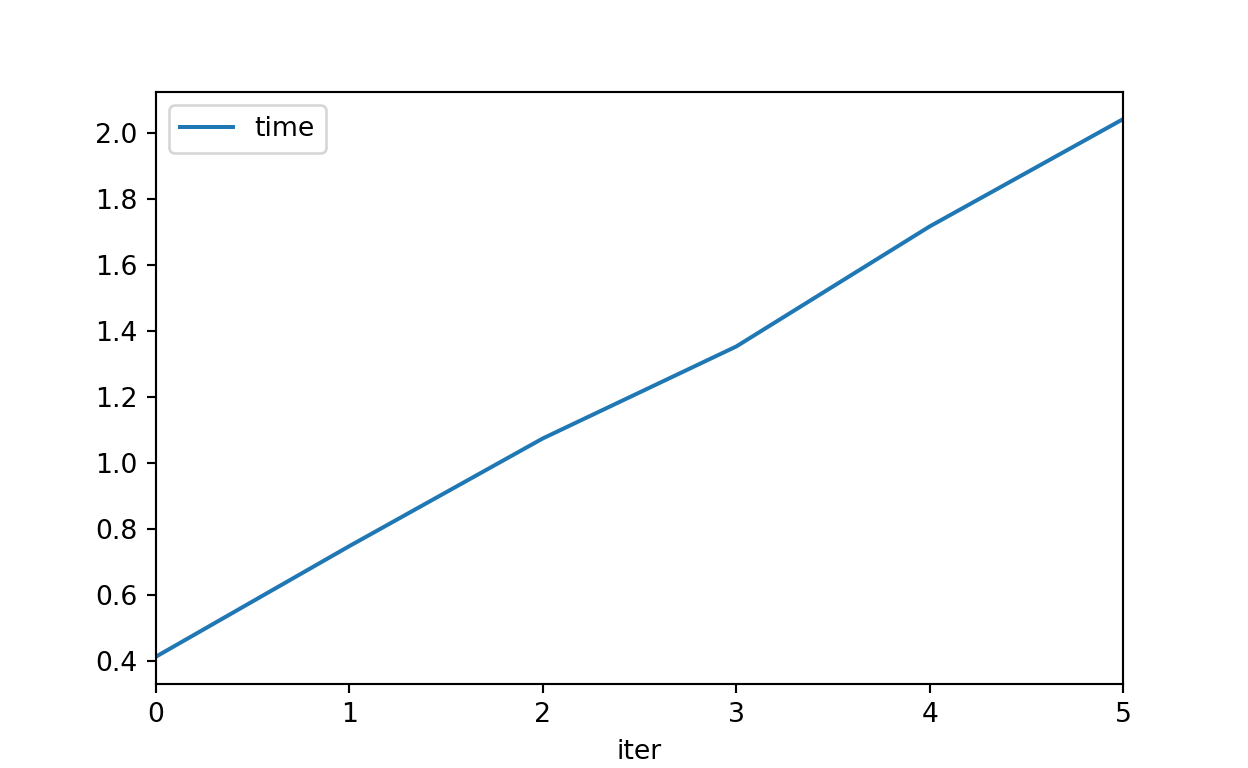
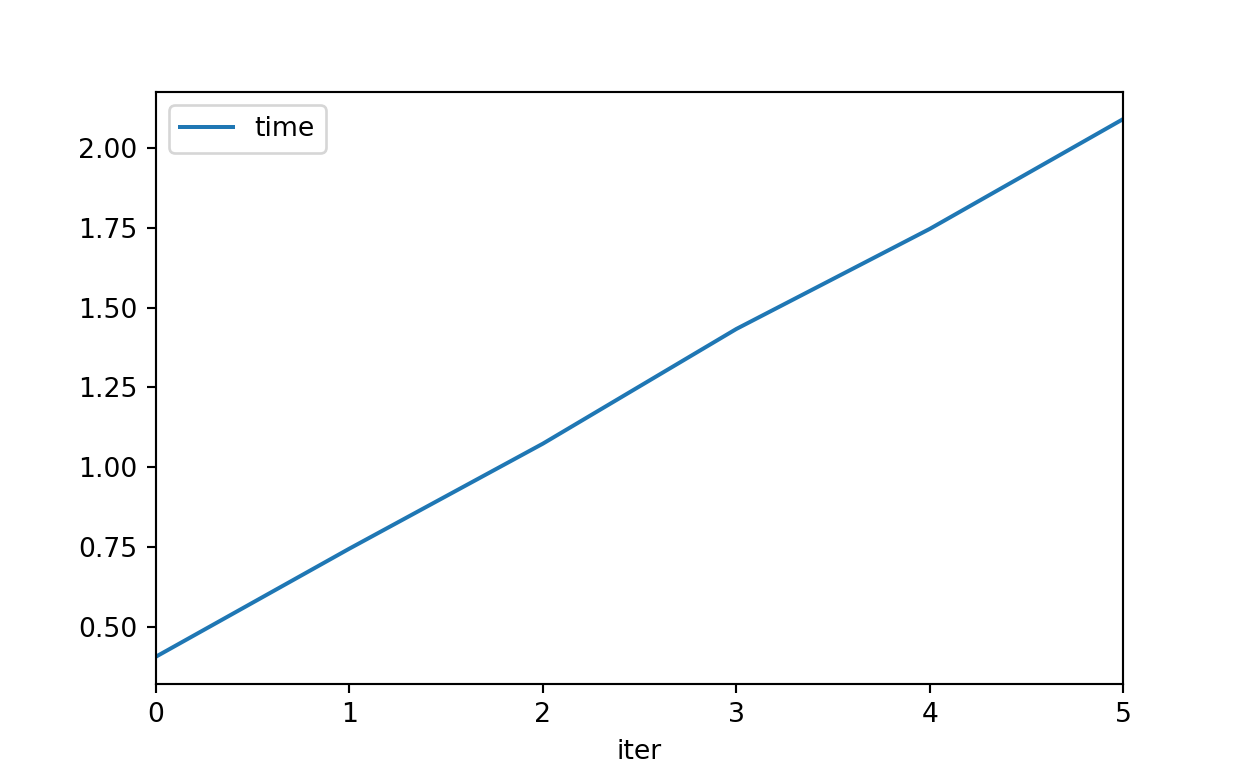
preview added

diff --git a/_site/python/_posts/2019-08-22-complejidad-computacional/complejidad-computacional.html b/_site/python/_posts/2019-08-22-complejidad-computacional/complejidad-computacional.html
@@ -45,7 +45,7 @@
   <!--radix_placeholder_rmarkdown_metadata-->
   
   <script type="text/json" id="radix-rmarkdown-metadata">
-  {"type":"list","attributes":{"names":{"type":"character","attributes":{},"value":["title","description","author","date","output","creative_commons","preview"]}},"value":[{"type":"character","attributes":{},"value":["Complejidad Computacional"]},{"type":"character","attributes":{},"value":["El post busca explicar el concepto de complejidad computacional utilizando como ejemplos el algorítmo de buscador lineal y la secuencia de fibonacci recursivo.\n"]},{"type":"list","attributes":{},"value":[{"type":"list","attributes":{"names":{"type":"character","attributes":{},"value":["name","url"]}},"value":[{"type":"character","attributes":{},"value":["Gabriel Cabrera"]},{"type":"list","attributes":{"names":{"type":"character","attributes":{},"value":[]}},"value":[]}]}]},{"type":"character","attributes":{},"value":["08-22-2019"]},{"type":"list","attributes":{"names":{"type":"character","attributes":{},"value":["distill::distill_article"]}},"value":[{"type":"list","attributes":{"names":{"type":"character","attributes":{},"value":["self_contained"]}},"value":[{"type":"logical","attributes":{},"value":[false]}]}]},{"type":"character","attributes":{},"value":["CC BY"]},{"type":"character","attributes":{},"value":[""]}]}
+  {"type":"list","attributes":{"names":{"type":"character","attributes":{},"value":["title","description","author","date","output","creative_commons","preview"]}},"value":[{"type":"character","attributes":{},"value":["Complejidad Computacional"]},{"type":"character","attributes":{},"value":["El post busca explicar el concepto de complejidad computacional utilizando como ejemplos el algorítmo de buscador lineal y la secuencia de fibonacci recursivo.\n"]},{"type":"list","attributes":{},"value":[{"type":"list","attributes":{"names":{"type":"character","attributes":{},"value":["name","url"]}},"value":[{"type":"character","attributes":{},"value":["Gabriel Cabrera"]},{"type":"list","attributes":{"names":{"type":"character","attributes":{},"value":[]}},"value":[]}]}]},{"type":"character","attributes":{},"value":["08-22-2019"]},{"type":"list","attributes":{"names":{"type":"character","attributes":{},"value":["distill::distill_article"]}},"value":[{"type":"list","attributes":{"names":{"type":"character","attributes":{},"value":["self_contained"]}},"value":[{"type":"logical","attributes":{},"value":[false]}]}]},{"type":"character","attributes":{},"value":["CC BY"]},{"type":"character","attributes":{},"value":["img/binarySearch.png"]}]}
   </script>
   <!--/radix_placeholder_rmarkdown_metadata-->
   
@@ -1024,13 +1024,13 @@ sum_recursiva(5)</code></pre>
 <pre class="python"><code>
 timeit.timeit(lambda: sum_iterativa(5))</code></pre>
 <pre><code>
-0.4841630458831787</code></pre>
+0.4873769283294678</code></pre>
 </div>
 <div class="layout-chunk" data-layout="l-body">
 <pre class="python"><code>
 timeit.timeit(lambda: sum_recursiva(5))</code></pre>
 <pre><code>
-0.5816650390625</code></pre>
+0.6269781589508057</code></pre>
 </div>
 <p>A partir de lo anterior se aprecia que así es.</p>
 <h2 id="modulo-timeit">Módulo timeit</h2>

diff --git a/_site/python/_site/posts/2019-08-22-complejidad-computacional/index.html b/_site/python/_site/posts/2019-08-22-complejidad-computacional/index.html
@@ -46,7 +46,7 @@
   <!--radix_placeholder_rmarkdown_metadata-->
 
 <script type="text/json" id="radix-rmarkdown-metadata">
-{"type":"list","attributes":{"names":{"type":"character","attributes":{},"value":["title","description","author","date","output","creative_commons","preview"]}},"value":[{"type":"character","attributes":{},"value":["Complejidad Computacional"]},{"type":"character","attributes":{},"value":["El post busca explicar el concepto de complejidad computacional utilizando como ejemplos el algorítmo de buscador lineal y la secuencia de fibonacci recursivo."]},{"type":"list","attributes":{},"value":[{"type":"list","attributes":{"names":{"type":"character","attributes":{},"value":["name","url"]}},"value":[{"type":"character","attributes":{},"value":["Gabriel Cabrera"]},{"type":"list","attributes":{"names":{"type":"character","attributes":{},"value":[]}},"value":[]}]}]},{"type":"character","attributes":{},"value":["08-22-2019"]},{"type":"list","attributes":{"names":{"type":"character","attributes":{},"value":["distill::distill_article"]}},"value":[{"type":"list","attributes":{"names":{"type":"character","attributes":{},"value":["self_contained"]}},"value":[{"type":"logical","attributes":{},"value":[false]}]}]},{"type":"character","attributes":{},"value":["CC BY"]},{"type":"character","attributes":{},"value":[""]}]}
+{"type":"list","attributes":{"names":{"type":"character","attributes":{},"value":["title","description","author","date","output","creative_commons","preview"]}},"value":[{"type":"character","attributes":{},"value":["Complejidad Computacional"]},{"type":"character","attributes":{},"value":["El post busca explicar el concepto de complejidad computacional utilizando como ejemplos el algorítmo de buscador lineal y la secuencia de fibonacci recursivo."]},{"type":"list","attributes":{},"value":[{"type":"list","attributes":{"names":{"type":"character","attributes":{},"value":["name","url"]}},"value":[{"type":"character","attributes":{},"value":["Gabriel Cabrera"]},{"type":"list","attributes":{"names":{"type":"character","attributes":{},"value":[]}},"value":[]}]}]},{"type":"character","attributes":{},"value":["08-22-2019"]},{"type":"list","attributes":{"names":{"type":"character","attributes":{},"value":["distill::distill_article"]}},"value":[{"type":"list","attributes":{"names":{"type":"character","attributes":{},"value":["self_contained"]}},"value":[{"type":"logical","attributes":{},"value":[false]}]}]},{"type":"character","attributes":{},"value":["CC BY"]},{"type":"character","attributes":{},"value":["img/binarySearch.png"]}]}
 </script>
 <!--/radix_placeholder_rmarkdown_metadata-->
   
@@ -1524,13 +1524,13 @@ sum_recursiva(5)</code></pre>
 <pre class="python"><code>
 timeit.timeit(lambda: sum_iterativa(5))</code></pre>
 <pre><code>
-0.4841630458831787</code></pre>
+0.4873769283294678</code></pre>
 </div>
 <div class="layout-chunk" data-layout="l-body">
 <pre class="python"><code>
 timeit.timeit(lambda: sum_recursiva(5))</code></pre>
 <pre><code>
-0.5816650390625</code></pre>
+0.6269781589508057</code></pre>
 </div>
 <p>A partir de lo anterior se aprecia que así es.</p>
 <h2 id="modulo-timeit">Módulo timeit</h2>

diff --git a/_site/python/_site/index.html b/_site/python/_site/index.html
@@ -1818,7 +1818,7 @@ function init_posts_list() {
 <div class="publishedDate">Aug. 22, 2019</div>
 </div>
 <div class="thumbnail">
-<img data-src="posts/2019-08-22-complejidad-computacional/"/>
+<img data-src="posts/2019-08-22-complejidad-computacional/img/binarySearch.png"/>
 </div>
 <div class="description">
 <h2>Complejidad Computacional</h2>
